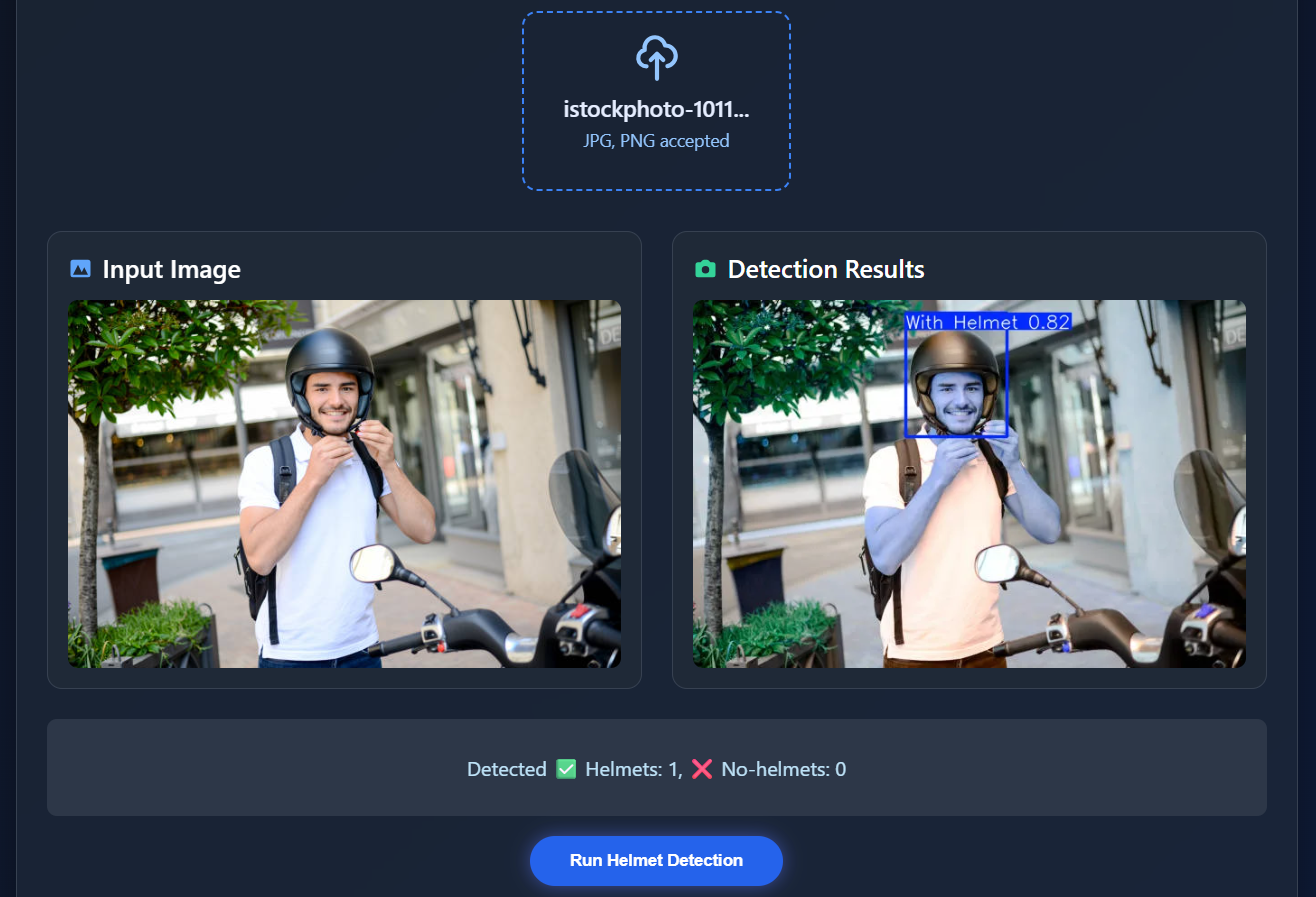
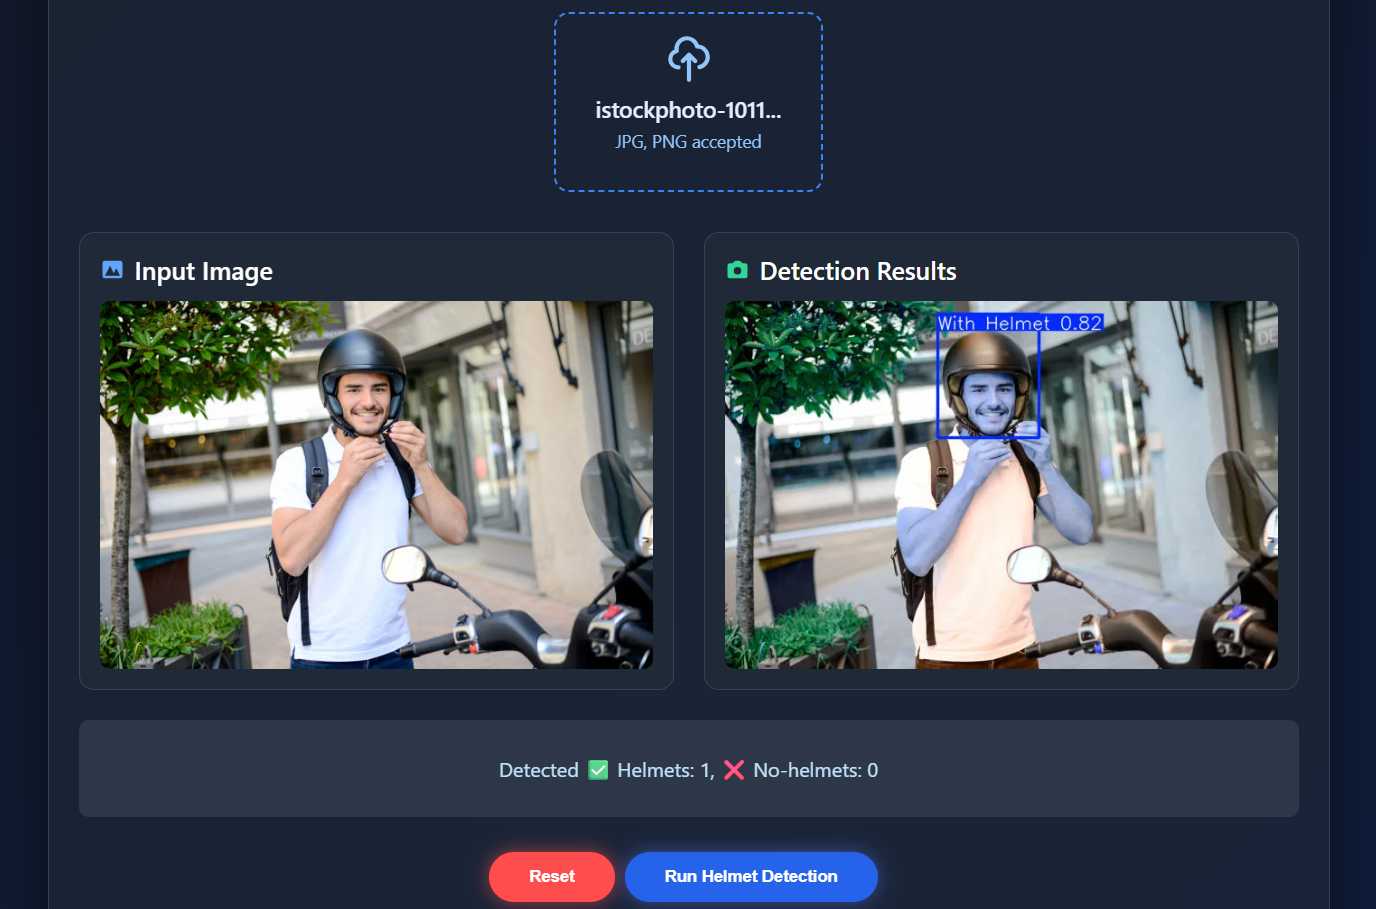
refined reset button functionality, and changed output screenshot

diff --git a/src/App.jsx b/src/App.jsx
@@ -162,7 +162,7 @@ export default function App() {
 
               {/* Action Button */}
               <div className="center">
-              {previewUrl && (
+              {(previewUrl && resultUrl) && (
   <button 
     onClick={handleReset} 
     className="reset-btn reset-glow-effect"
